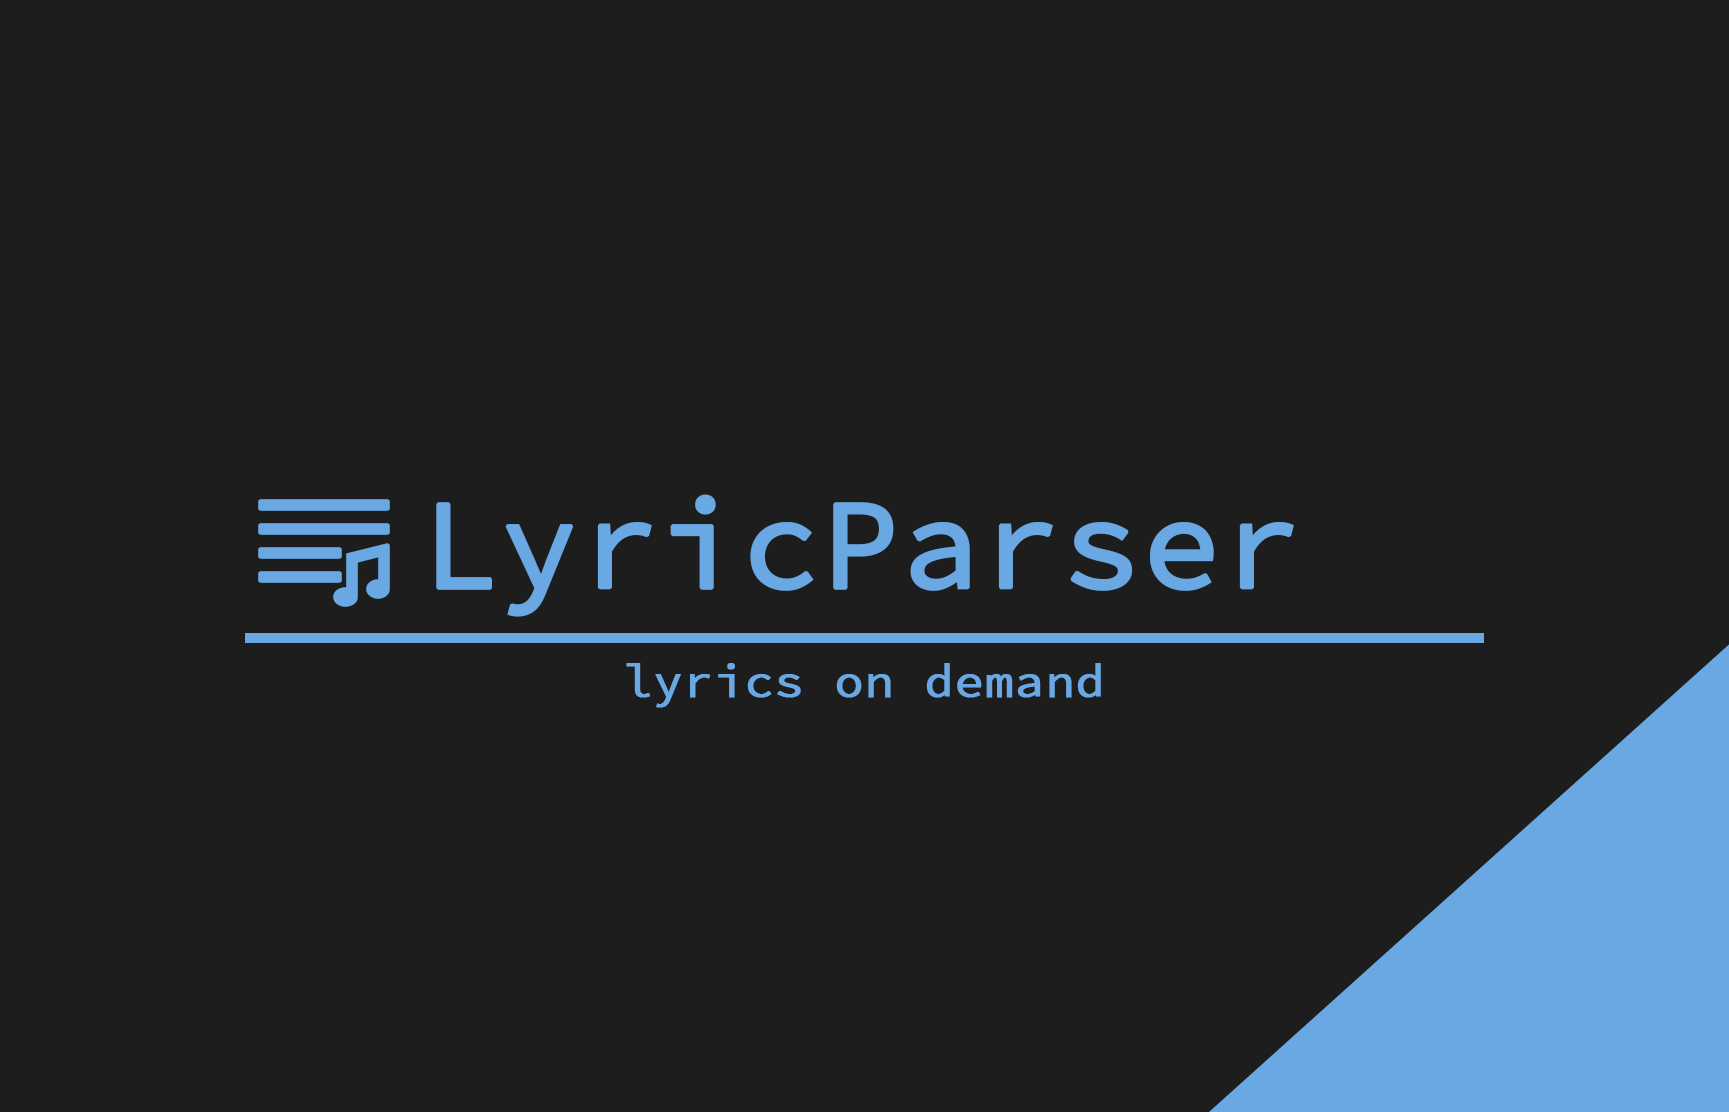
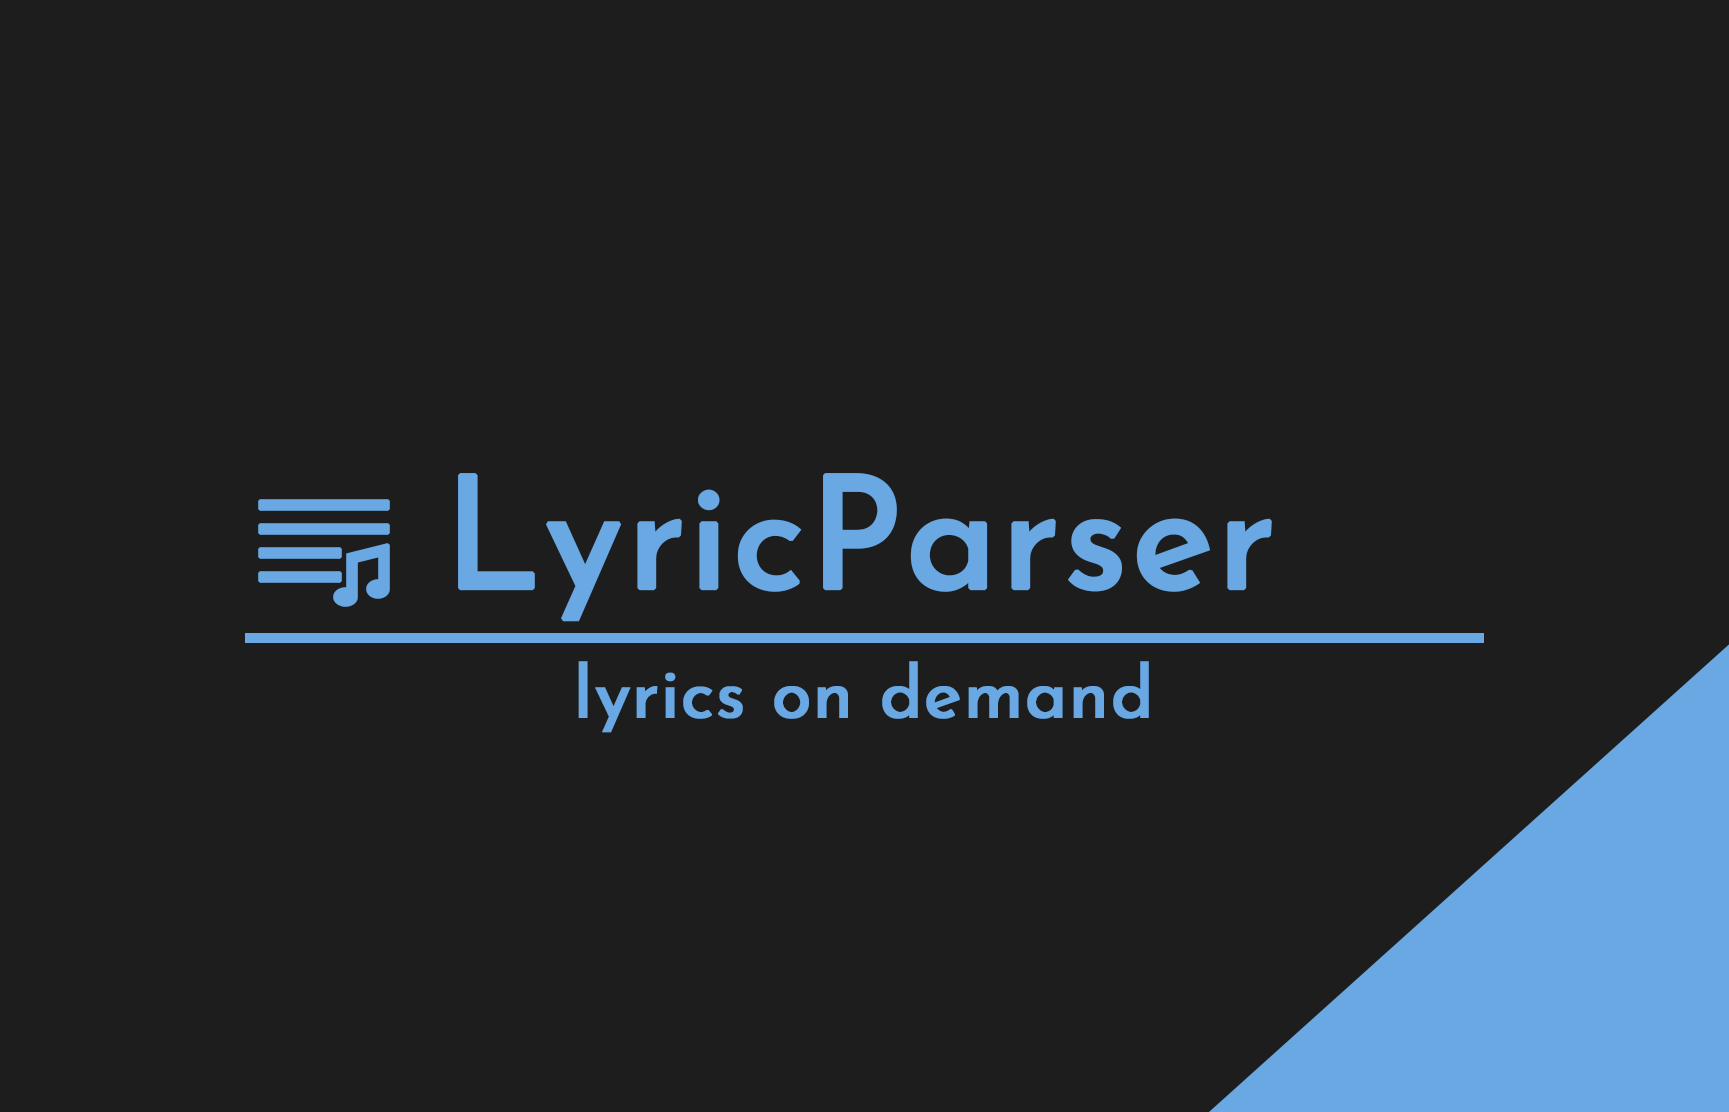
Change services from dummy text

Changed region(s): [[0.2499, 0.4281, 0.7496, 0.6727]]

diff --git a/index.html b/index.html
@@ -9,6 +9,7 @@
     <link rel="stylesheet" href="https://cdnjs.cloudflare.com/ajax/libs/normalize/7.0.0/normalize.min.css" />
     <link href="https://fonts.googleapis.com/css?family=Source+Code+Pro:400,900|Source+Sans+Pro:300,900&display=swap"
         rel="stylesheet" />
+    <link href="https://fonts.googleapis.com/css2?family=PT+Sans&display=swap" rel="stylesheet">
     <link rel="stylesheet" href="css/style.css" />
     <script src="https://kit.fontawesome.com/45a9f6f0c7.js" crossorigin="anonymous"></script>
 </head>
@@ -48,39 +49,37 @@
     </section>
 
     <section class="my-services" id="services">
-        <h2 class="section__title section__title--services">What I do</h2>
         <div class="services">
             <div class="service">
-                <h3>Design + Development</h3>
-                <p>
-                    Lorem ipsum dolor sit amet, consectetur adipiscing elit, sed do
-                    eiusmod tempor incididunt ut labore et dolore magna aliqua. Ut enim
-                    ad minim veniam, quis nostrud exercitation ullamco laboris nisi ut
-                    aliquip ex ea commodo consequat.
-                </p>
+                <div class="hexagon">
+                    <i class="fas fa-universal-access fa-w-16 fa-6x"></i>
+                </div>
+                <div class="service__description">
+                    <strong>Accessability</strong>
+                    <p>Strive to be accessible to everyone - Mental or physical impairments should not stop anyone from
+                        enoying the world
+                        wide web</p>
+                </div>
             </div>
-
             <div class="service">
-                <h3>E-Commerce</h3>
-                <p>
-                    Lorem ipsum dolor sit amet, consectetur adipiscing elit, sed do
-                    eiusmod tempor incididunt ut labore et dolore magna aliqua. Ut enim
-                    ad minim veniam, quis nostrud exercitation ullamco laboris nisi ut
-                    aliquip ex ea commodo consequat.
-                </p>
+                <div class="hexagon">
+                    <i class="fas fa-tablet-alt fa-w-16 fa-6x"></i>
+                </div>
+                <div class="service__description">
+                    <strong>Responsive</strong>
+                    <p>Responsive design makes sure you can enjoy my layout on any device</p>
+                </div>
             </div>
-
             <div class="service">
-                <h3>WordPress</h3>
-                <p>
-                    Lorem ipsum dolor sit amet, consectetur adipiscing elit, sed do
-                    eiusmod tempor incididunt ut labore et dolore magna aliqua. Ut enim
-                    ad minim veniam, quis nostrud exercitation ullamco laboris nisi ut
-                    aliquip ex ea commodo consequat.
-                </p>
+                <div class="hexagon">
+                    <i class="fas fa-hourglass-end fa-w-16 fa-6x"></i>
+                </div>
+                <div class="service__description">
+                    <strong>Speed</strong>
+                    <p>Lightweight & fast loading - Because time is money, friend</p>
+                </div>
             </div>
         </div>
-        <a href="#work" class="btn">My Work</a>
     </section>
 
     <section class="about-me" id="about">

diff --git a/css/style.css b/css/style.css
@@ -7,7 +7,7 @@
 
 :root {
   --ff-primary: 'Source Sans Pro', sans-serif;
-  --ff-secondary: 'Source Sans Pro'monospace;
+  --ff-secondary: 'PT Sans', monospace;
   --fw-reg: 300;
   --fw-bold: 900;
   --clr-light: #D5D7CC;
@@ -105,6 +105,7 @@ h3 {
 
 .section__title {
   margin-bottom: .25em;
+  font-family: var(--ff-secondary);
 }
 
 .section__title--intro {
@@ -318,7 +319,7 @@ header {
   background-color: var(--clr-dark);
   background-image: url(../img/lyricparser-background.png);
   background-size: cover;
-  /* background-blend-mode: multiply; */
+  background-blend-mode: overlay;
   color: var(--clr-light);
   text-align: center;
 }
@@ -328,23 +329,27 @@ header {
   position: relative;
 }
 
-.section__title--services::after {
-  content: '';
-  display: block;
-  width: 2em;
-  height: 1px;
-  margin: 0.5em auto 1em;
-  background: var(--clr-light);
-  opacity: 0.25;
+.hexagon {
+  background-image: url(../img/hexagon.svg);
+  background-size: contain;
+  display: -webkit-inline-box;
+  display: -ms-inline-flexbox;
+  display: inline-flex;
+  width: 200px;
+  height: 200px;
+  justify-items: center;
+  -ms-flex-line-pack: center;
+      align-content: center;
+  text-align: center;
 }
 
-.services {
-  margin-bottom: 4em;
+.service__description {
+  font-family: var(--ff-secondary);
 }
 
-.service {
-  max-width: 500px;
-  margin: 0 auto;
+.hexagon i {
+  color: var(--clr-light);
+  margin: auto auto;
 }
 
 @media (min-width: 800px) {
@@ -352,12 +357,10 @@ header {
     display: -webkit-box;
     display: -ms-flexbox;
     display: flex;
-    max-width: 1000px;
+    max-width: calc(600px + 6rem);
+    gap: 3rem;
     margin-left: auto;
     margin-right: auto;
-  }
-  .services + .service {
-    margin-left: 2em;
   }
 }
 

diff --git a/css/style.scss b/css/style.scss
@@ -6,7 +6,7 @@
 
 :root {
     --ff-primary: 'Source Sans Pro', sans-serif;
-    --ff-secondary: 'Source Sans Pro'monospace;
+    --ff-secondary: 'PT Sans', monospace;
 
     --fw-reg: 300;
     --fw-bold: 900;
@@ -106,6 +106,7 @@ h3 {
 
 .section__title {
     margin-bottom: .25em;
+    font-family: var(--ff-secondary);
 }
 
 .section__title--intro {
@@ -291,7 +292,7 @@ header {
     background-color: var(--clr-dark);
     background-image: url(../img/lyricparser-background.png);
     background-size: cover;
-    /* background-blend-mode: multiply; */
+    background-blend-mode: overlay;
     color: var(--clr-light);
     text-align: center;
 }
@@ -301,35 +302,34 @@ header {
     position: relative;
 }
 
-.section__title--services::after {
-    content: '';
-    display: block;
-    width: 2em;
-    height: 1px;
-    margin: 0.5em auto 1em;
-    background: var(--clr-light);
-    opacity: 0.25;
+
+.hexagon {
+    background-image: url(../img/hexagon.svg);
+    background-size: contain;
+    display: inline-flex;
+    width: 200px;
+    height: 200px;
+    justify-items: center;
+    align-content: center;
+    text-align: center;
 }
 
-.services {
-    margin-bottom: 4em;
+.service__description {
+    font-family: var(--ff-secondary);
 }
 
-.service {
-    max-width: 500px;
-    margin: 0 auto;
+.hexagon i {
+    color: var(--clr-light);
+    margin: auto auto;
 }
 
 @media (min-width: 800px) {
     .services {
         display: flex;
-        max-width: 1000px;
+        max-width: calc(600px + 6rem);
+        gap: 3rem;
         margin-left: auto;
         margin-right: auto;
-    }
-
-    .services+.service {
-        margin-left: 2em;
     }
 }
 
